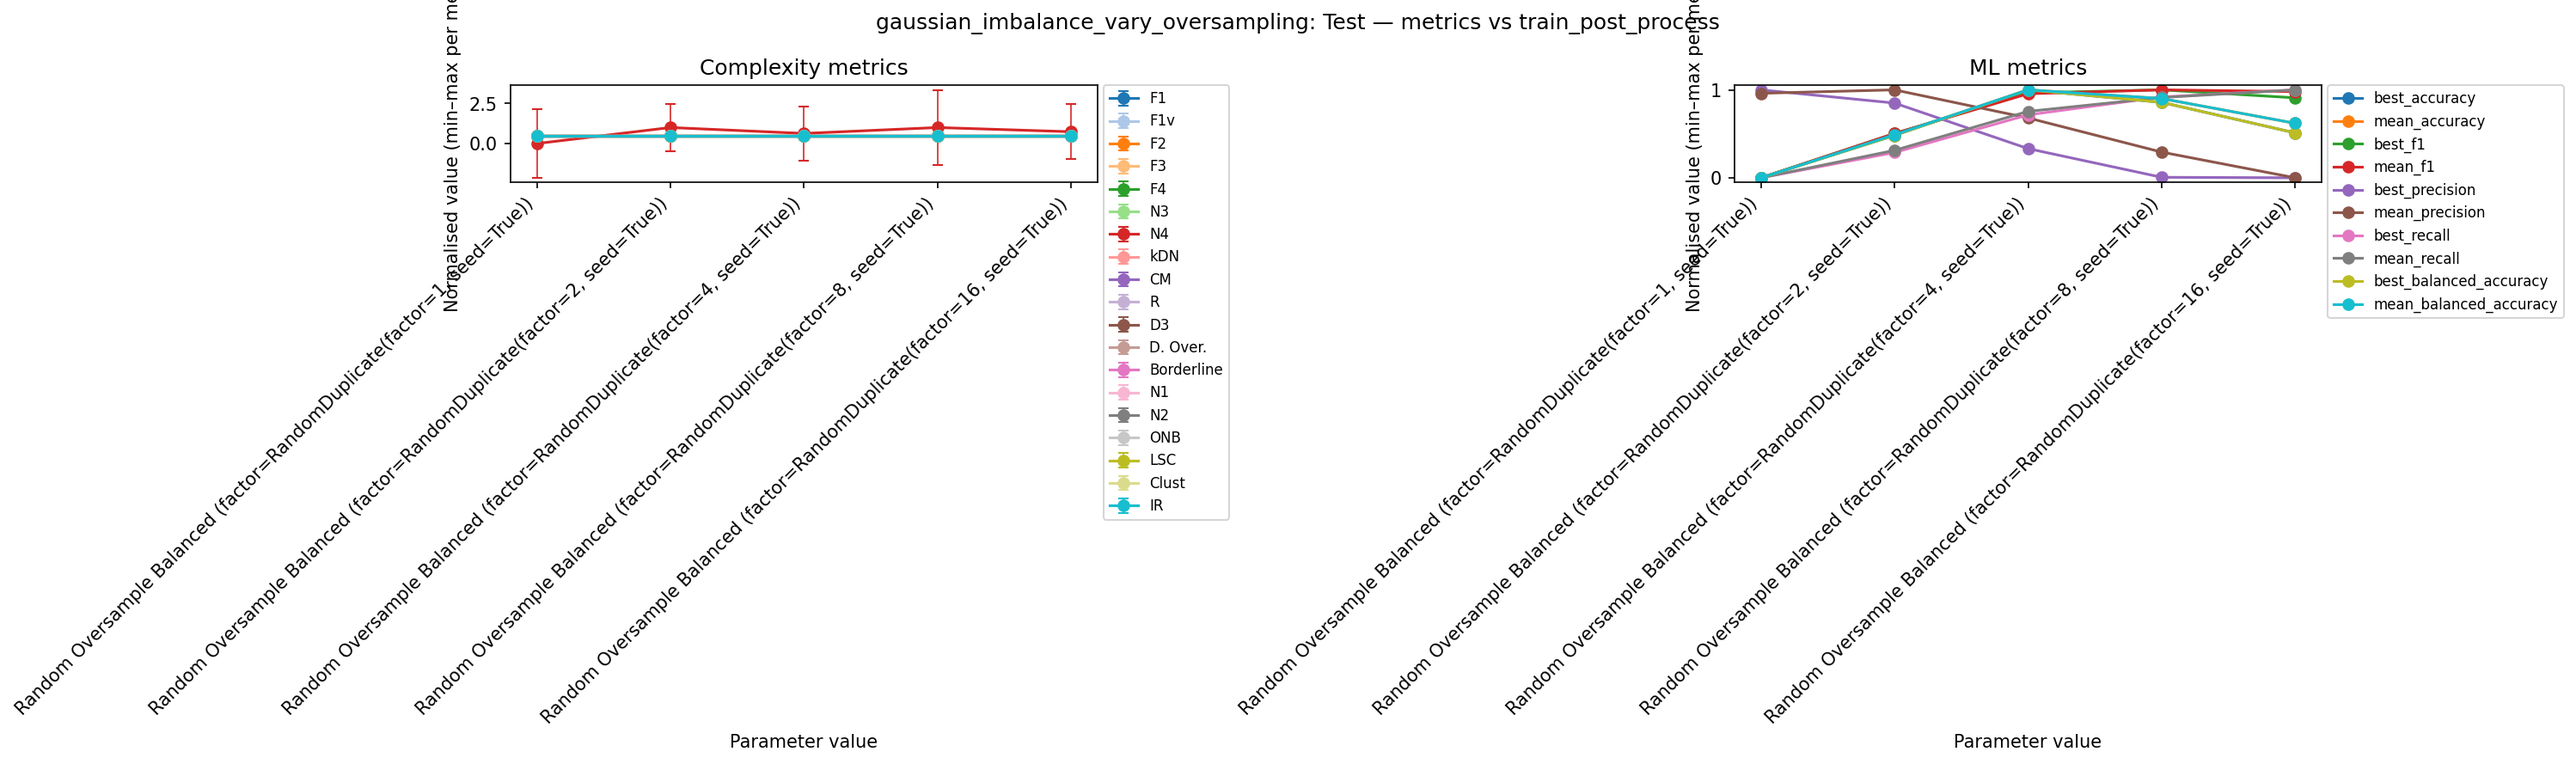
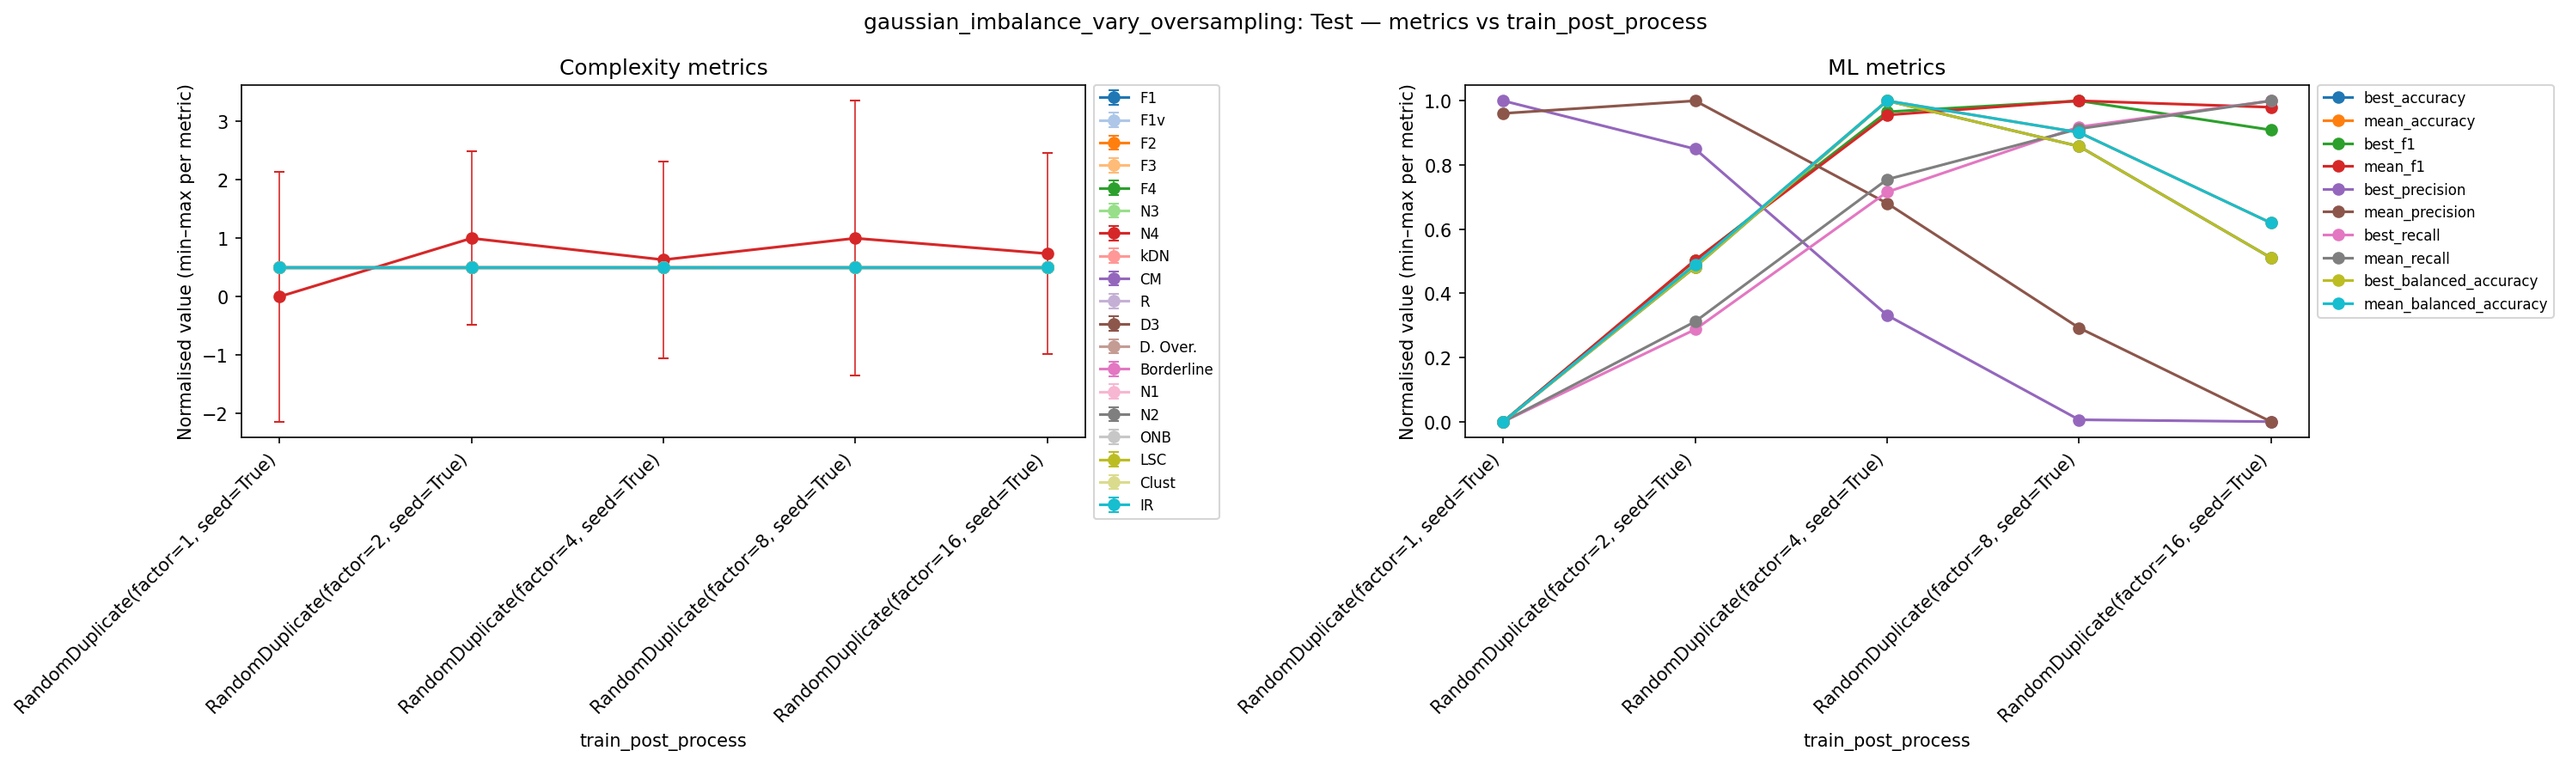
shorter x labels

diff --git a/data_complexity/model_experiments/experiment/run.py b/data_complexity/model_experiments/experiment/run.py
@@ -496,6 +496,8 @@ class Experiment:
                     fig = plot_metrics_vs_parameter(
                         complexity_df=self.results.train_complexity_df,
                         ml_df=self.results.train_ml_df,
+                        param_label_col="param_value",
+                        x_label=self.config.vary_parameter.name,
                         title=f"{self.config.name}: Train — metrics vs {self.config.vary_parameter.name}",
                     )
                     figures[pt] = fig
@@ -505,6 +507,8 @@ class Experiment:
                     fig = plot_metrics_vs_parameter(
                         complexity_df=self.results.test_complexity_df,
                         ml_df=self.results.test_ml_df,
+                        param_label_col="param_value",
+                        x_label=self.config.vary_parameter.name,
                         title=f"{self.config.name}: Test — metrics vs {self.config.vary_parameter.name}",
                     )
                     figures[pt] = fig
@@ -513,6 +517,8 @@ class Experiment:
                 if self.results.train_ml_df is not None:
                     fig = plot_models_vs_parameter(
                         ml_df=self.results.train_ml_df,
+                        param_label_col="param_value",
+                        x_label=self.config.vary_parameter.name,
                         title=f"{self.config.name}: Models (Train) vs {self.config.vary_parameter.name}",
                         ml_metrics=self.config.ml_metrics,
                     )
@@ -522,6 +528,8 @@ class Experiment:
                 if self.results.test_ml_df is not None:
                     fig = plot_models_vs_parameter(
                         ml_df=self.results.test_ml_df,
+                        param_label_col="param_value",
+                        x_label=self.config.vary_parameter.name,
                         title=f"{self.config.name}: Models (Test) vs {self.config.vary_parameter.name}",
                         ml_metrics=self.config.ml_metrics,
                     )

diff --git a/data_complexity/model_experiments/plotting.py b/data_complexity/model_experiments/plotting.py
@@ -246,6 +246,7 @@ def plot_metrics_vs_parameter(
     title: str = "Metrics vs Parameter",
     ml_prefixes: tuple = ("best_", "mean_"),
     split_subplots: bool = True,
+    x_label: str = "Parameter value",
 ) -> plt.Figure:
     """
     Line plot of all normalised complexity and ML metrics vs. a varied parameter.
@@ -368,7 +369,7 @@ def plot_metrics_vs_parameter(
             )
         ax.set_xticks(x)
         ax.set_xticklabels(x_labels, rotation=45, ha="right")
-        ax.set_xlabel("Parameter value")
+        ax.set_xlabel(x_label)
         ax.set_ylabel("Normalised value (min\u2013max per metric)")
         ax.legend(loc="upper left", bbox_to_anchor=(1.01, 1), borderaxespad=0, fontsize=8)
 
@@ -406,6 +407,7 @@ def plot_models_vs_parameter(
     param_label_col: str = "param_label",
     title: str = "Models vs Parameter",
     ml_metrics: Optional[List[str]] = None,
+    x_label: str = "Parameter value",
 ) -> plt.Figure:
     """
     Line plots showing each ML model in its own subplot, with one line per metric.
@@ -506,7 +508,7 @@ def plot_models_vs_parameter(
         ax.set_xticklabels(x_labels, rotation=45, ha="right")
         ax.set_ylim(0, 1)
         ax.set_ylabel("Score")
-        ax.set_xlabel("Parameter value")
+        ax.set_xlabel(x_label)
         ax.legend(fontsize=8)
 
     # Turn off unused subplots
